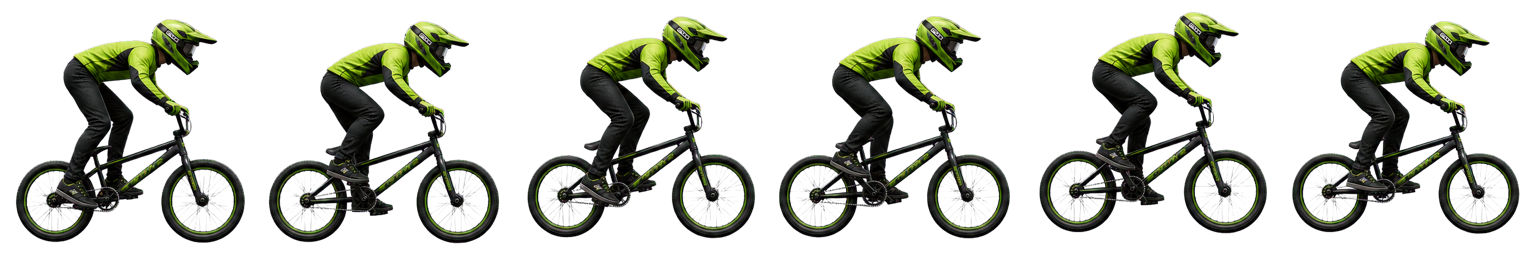
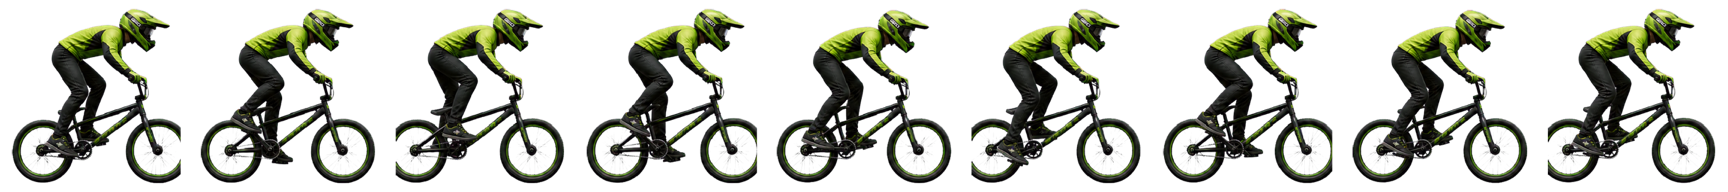
Fix full-cycle rider pedaling

diff --git a/src/components/GoogleMapsTrackLayer.tsx b/src/components/GoogleMapsTrackLayer.tsx
@@ -56,6 +56,7 @@ import { cStartVisualDistance, type CStartOffsetsByPlayer } from '../lib/bmxGate
 import {
   riderAnimationState,
   riderAtlasFrameCount,
+  riderFrameBlendSteps,
   riderWheelFrameCount,
   type RiderAnimationState,
 } from '../lib/riderAnimation';
@@ -157,6 +158,30 @@ type RiderMapMarker = {
 
 const riderImagePromises = new Map<string, Promise<HTMLImageElement>>();
 const riderIconCache = new Map<string, string>();
+const riderIconCacheMaxEntries = 768;
+
+function cachedRiderIcon(cacheKey: string) {
+  const cached = riderIconCache.get(cacheKey);
+  if (!cached) {
+    return null;
+  }
+
+  riderIconCache.delete(cacheKey);
+  riderIconCache.set(cacheKey, cached);
+  return cached;
+}
+
+function rememberRiderIcon(cacheKey: string, dataUrl: string) {
+  while (riderIconCache.size >= riderIconCacheMaxEntries) {
+    const oldestKey = riderIconCache.keys().next().value;
+    if (typeof oldestKey !== 'string') {
+      break;
+    }
+    riderIconCache.delete(oldestKey);
+  }
+  riderIconCache.set(cacheKey, dataUrl);
+}
+
 function coastingRiderAnimation(distanceMeters: number): RiderAnimationState {
   return riderAnimationState({
     raceState: 'ready',
@@ -604,8 +629,10 @@ async function uprightRiderIconUrl(
   const orientation = uprightRiderOrientation(rotationDegrees);
   const leanBucket = riderLeanBucket(rotationDegrees);
   const frameIndex = Math.max(0, Math.min(riderAtlasFrameCount - 1, animation.frameIndex));
-  const cacheKey = `${appearance}:${player.colorName}:${player.accent}:${orientation.mirrored ? 'left' : 'right'}:${leanBucket}:${frameIndex}:${animation.wheelFrameIndex}`;
-  const cached = riderIconCache.get(cacheKey);
+  const nextFrameIndex = Math.max(0, Math.min(riderAtlasFrameCount - 1, animation.nextFrameIndex));
+  const blendBucket = Math.round(animation.frameBlend * riderFrameBlendSteps);
+  const cacheKey = `${appearance}:${player.colorName}:${player.accent}:${orientation.mirrored ? 'left' : 'right'}:${leanBucket}:${frameIndex}:${nextFrameIndex}:${blendBucket}:${animation.wheelFrameIndex}`;
+  const cached = cachedRiderIcon(cacheKey);
   if (cached) {
     return cached;
   }
@@ -627,17 +654,26 @@ async function uprightRiderIconUrl(
   context.shadowBlur = appearance === 'ghost' ? 14 : 8;
   context.shadowOffsetY = 5;
   const atlasFrameWidth = image.naturalWidth / riderAtlasFrameCount;
-  context.drawImage(
-    image,
-    frameIndex * atlasFrameWidth,
-    0,
-    atlasFrameWidth,
-    image.naturalHeight,
-    -riderDrawSize / 2,
-    riderDrawTop,
-    riderDrawSize,
-    riderDrawSize,
-  );
+  const frameBlend = Math.max(0, Math.min(1, animation.frameBlend));
+  const drawAtlasFrame = (nextIndex: number, alpha: number) => {
+    context.globalAlpha = alpha;
+    context.drawImage(
+      image,
+      nextIndex * atlasFrameWidth,
+      0,
+      atlasFrameWidth,
+      image.naturalHeight,
+      -riderDrawSize / 2,
+      riderDrawTop,
+      riderDrawSize,
+      riderDrawSize,
+    );
+  };
+  drawAtlasFrame(frameIndex, nextFrameIndex === frameIndex ? 1 : 1 - frameBlend);
+  if (nextFrameIndex !== frameIndex && frameBlend > 0) {
+    drawAtlasFrame(nextFrameIndex, frameBlend);
+  }
+  context.globalAlpha = 1;
   const wheelRotation = (animation.wheelFrameIndex / riderWheelFrameCount) * Math.PI * 2;
   context.strokeStyle = appearance === 'ghost' ? 'rgba(103, 232, 249, 0.78)' : player.accent;
   context.globalAlpha = appearance === 'ghost' ? 0.65 : 0.72;
@@ -667,7 +703,7 @@ async function uprightRiderIconUrl(
   }
 
   const dataUrl = canvas.toDataURL('image/png');
-  riderIconCache.set(cacheKey, dataUrl);
+  rememberRiderIcon(cacheKey, dataUrl);
   return dataUrl;
 }
 
@@ -695,7 +731,8 @@ function createRiderMapMarker(
 
   const applyVisual = (nextRotation: number, nextAnimation: RiderAnimationState) => {
     const orientation = uprightRiderOrientation(nextRotation);
-    const nextVisualKey = `${orientation.mirrored ? 'left' : 'right'}:${riderLeanBucket(nextRotation)}:${nextAnimation.frameIndex}:${nextAnimation.wheelFrameIndex}`;
+    const nextBlendBucket = Math.round(nextAnimation.frameBlend * riderFrameBlendSteps);
+    const nextVisualKey = `${orientation.mirrored ? 'left' : 'right'}:${riderLeanBucket(nextRotation)}:${nextAnimation.frameIndex}:${nextAnimation.nextFrameIndex}:${nextBlendBucket}:${nextAnimation.wheelFrameIndex}`;
     if (nextVisualKey === visualKey) {
       return;
     }

diff --git a/tests/unit/riderAnimationAssets.test.ts b/tests/unit/riderAnimationAssets.test.ts
@@ -6,23 +6,37 @@ import { riderAtlasFrameCount } from '../../src/lib/riderAnimation';
 const colors = ['lime', 'red', 'blue', 'yellow'];
 
 describe('animated rider assets', () => {
-  it.each(colors)('ships a complete six-frame %s rider atlas', async (color) => {
+  it.each(colors)('ships a complete full-cycle %s rider atlas', async (color) => {
     const file = new URL(`../../public/assets/rider-${color}-animated.png`, import.meta.url);
     const atlas = PNG.sync.read(await readFile(file));
 
     expect(atlas.width).toBe(atlas.height * riderAtlasFrameCount);
 
     const frameWidth = atlas.width / riderAtlasFrameCount;
+    const frameCenters: number[] = [];
+    const frameGroundLines: number[] = [];
     for (let frameIndex = 0; frameIndex < riderAtlasFrameCount; frameIndex += 1) {
       let visiblePixels = 0;
+      let minX = frameWidth;
+      let maxX = -1;
+      let maxY = -1;
       for (let y = 0; y < atlas.height; y += 1) {
         for (let x = frameIndex * frameWidth; x < (frameIndex + 1) * frameWidth; x += 1) {
           if (atlas.data[((y * atlas.width + x) * 4) + 3] > 32) {
             visiblePixels += 1;
+            const localX = x - (frameIndex * frameWidth);
+            minX = Math.min(minX, localX);
+            maxX = Math.max(maxX, localX);
+            maxY = Math.max(maxY, y);
           }
         }
       }
       expect(visiblePixels).toBeGreaterThan(2_000);
+      frameCenters.push((minX + maxX) / 2);
+      frameGroundLines.push(maxY);
     }
+
+    expect(Math.max(...frameCenters) - Math.min(...frameCenters)).toBeLessThanOrEqual(2);
+    expect(Math.max(...frameGroundLines) - Math.min(...frameGroundLines)).toBeLessThanOrEqual(2);
   });
 });

diff --git a/src/lib/riderAnimation.ts b/src/lib/riderAnimation.ts
@@ -1,9 +1,10 @@
 import type { RaceState, RiderDriveSource } from '../types';
 
-export const riderPedalFrameCount = 5;
+export const riderPedalFrameCount = 8;
 export const riderCoastFrameIndex = riderPedalFrameCount;
 export const riderAtlasFrameCount = riderPedalFrameCount + 1;
 export const riderWheelFrameCount = 4;
+export const riderFrameBlendSteps = 4;
 const bmxWheelCircumferenceMeters = Math.PI * 0.508;
 
 type RiderAnimationInput = {
@@ -18,6 +19,8 @@ type RiderAnimationInput = {
 
 export type RiderAnimationState = {
   frameIndex: number;
+  nextFrameIndex: number;
+  frameBlend: number;
   pedaling: boolean;
   wheelFrameIndex: number;
 };
@@ -48,11 +51,23 @@ export function riderAnimationState({
   const pedaling = raceState === 'racing' && driveAllowed && driveIsEngaged && hasPedalInput;
 
   if (!pedaling) {
-    return { frameIndex: riderCoastFrameIndex, pedaling: false, wheelFrameIndex };
+    return {
+      frameIndex: riderCoastFrameIndex,
+      nextFrameIndex: riderCoastFrameIndex,
+      frameBlend: 0,
+      pedaling: false,
+      wheelFrameIndex,
+    };
   }
 
+  const frameProgress = normalizedPedalPhase(pedalPhase) * riderPedalFrameCount;
+  const frameIndex = Math.floor(frameProgress) % riderPedalFrameCount;
+  const frameBlend = Math.floor((frameProgress - frameIndex) * riderFrameBlendSteps) / riderFrameBlendSteps;
+
   return {
-    frameIndex: Math.floor(normalizedPedalPhase(pedalPhase) * riderPedalFrameCount) % riderPedalFrameCount,
+    frameIndex,
+    nextFrameIndex: (frameIndex + 1) % riderPedalFrameCount,
+    frameBlend,
     pedaling: true,
     wheelFrameIndex,
   };

diff --git a/tests/unit/riderAnimation.test.ts b/tests/unit/riderAnimation.test.ts
@@ -18,6 +18,24 @@ describe('rider animation', () => {
     })).toMatchObject({ frameIndex: Math.floor(0.42 * riderPedalFrameCount), pedaling: true });
   });
 
+  it('advances through a complete 360-degree cycle without reversing', () => {
+    const frameAt = (pedalPhase: number) => riderAnimationState({
+      raceState: 'racing',
+      distanceMeters: 12,
+      pedalPhase,
+      driveAllowed: true,
+      driveSource: 'cadence',
+      cadenceRpm: 90,
+      watts: 600,
+    });
+    const frames = Array.from({ length: riderPedalFrameCount }, (_, index) => (
+      frameAt(index / riderPedalFrameCount).frameIndex
+    ));
+
+    expect(frames).toEqual([0, 1, 2, 3, 4, 5, 6, 7]);
+    expect(frameAt(0.99)).toMatchObject({ frameIndex: 7, nextFrameIndex: 0 });
+  });
+
   it.each([
     { driveAllowed: false, driveSource: 'blocked' as const, cadenceRpm: 110, watts: 900 },
     { driveAllowed: true, driveSource: 'coast' as const, cadenceRpm: 0, watts: 0 },
@@ -39,7 +57,13 @@ describe('rider animation', () => {
       driveSource: 'cadence',
       cadenceRpm: 80,
       watts: 500,
-    })).toEqual({ frameIndex: riderCoastFrameIndex, pedaling: false, wheelFrameIndex: 0 });
+    })).toEqual({
+      frameIndex: riderCoastFrameIndex,
+      nextFrameIndex: riderCoastFrameIndex,
+      frameBlend: 0,
+      pedaling: false,
+      wheelFrameIndex: 0,
+    });
   });
 
   it('keeps wheel motion tied to track distance while coasting', () => {
